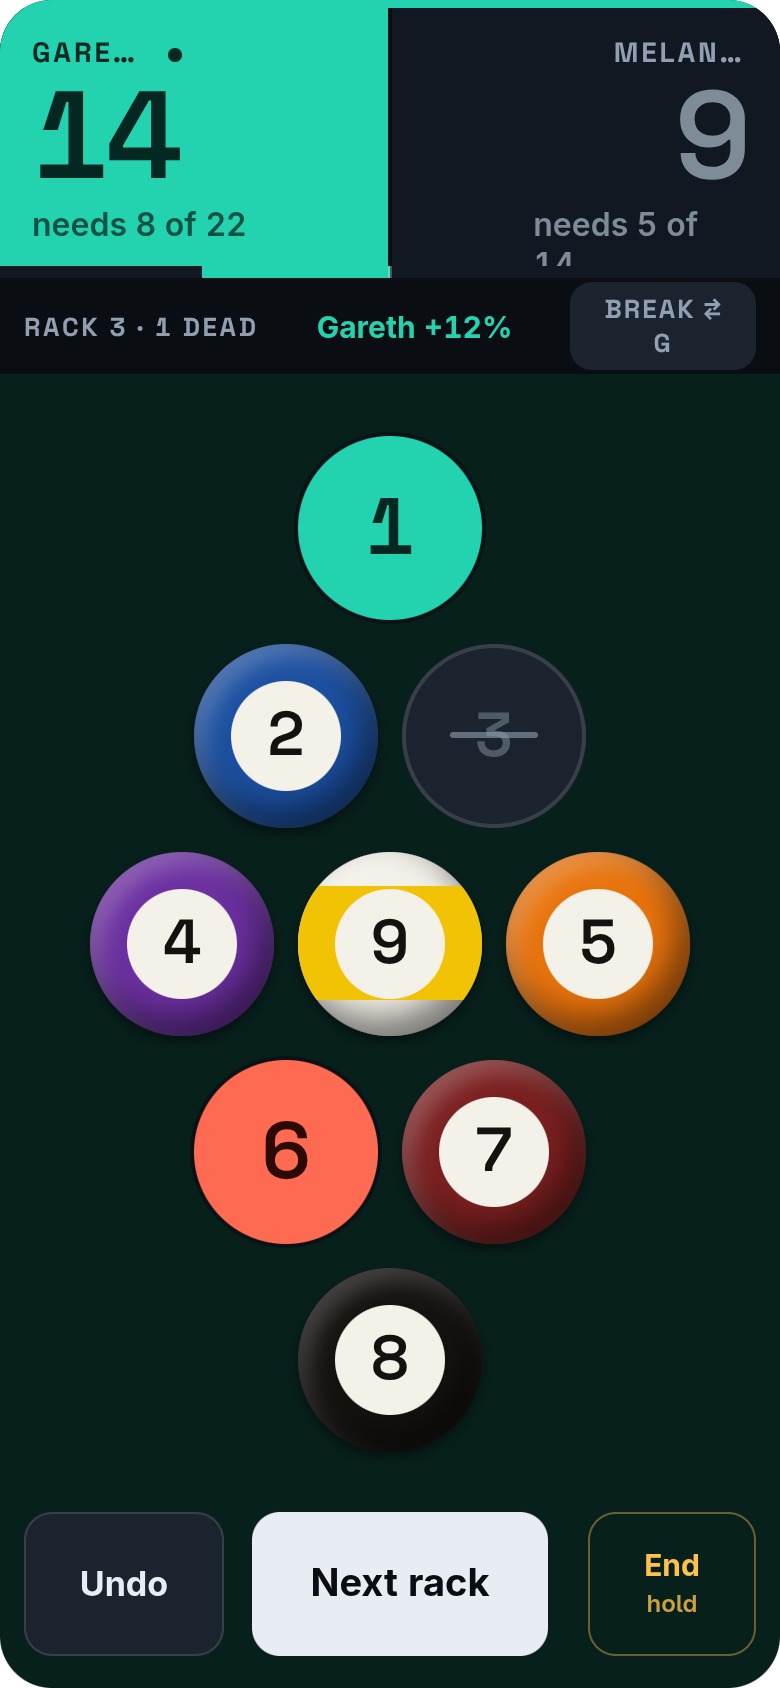
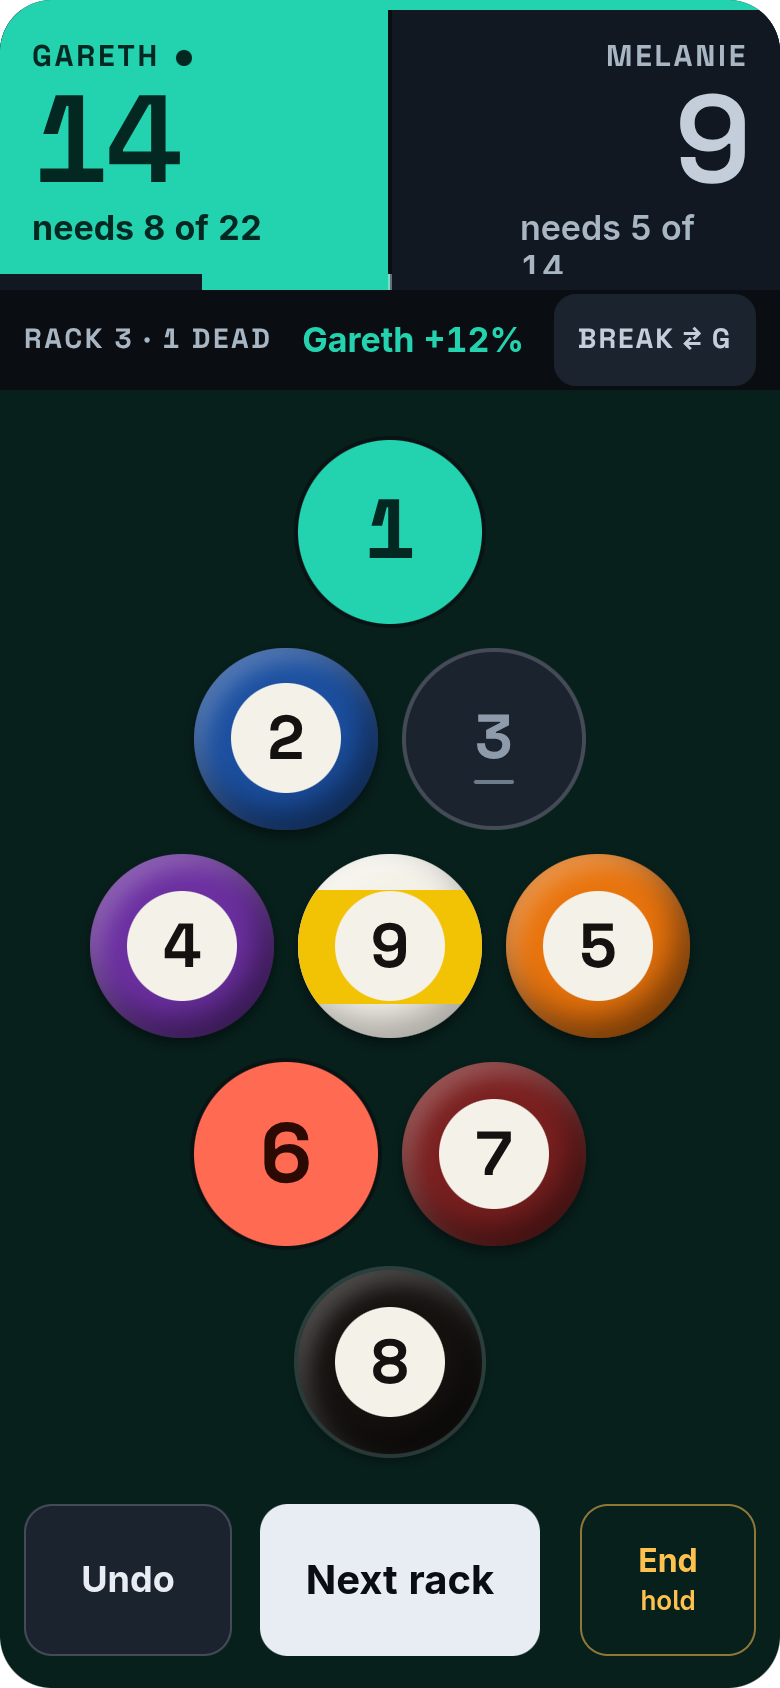
rack-it: bring in the design's legibility pass; caps labels may be 14px

diff --git a/rack-it/design/DESIGN.md b/rack-it/design/DESIGN.md
@@ -1,19 +1,21 @@
 # Rack It — dark system v2
 
-> **Read with `V3-PLAN.md`.** This spec was written by claude.ai/design against 1.5.0 and is
-> applied in **Session 6**, after Session 5 has moved the app to `rack-it/`. Where the two
+> **Read with `V3-PLAN.md`.** claude.ai/design wrote this spec against 1.5.0; Session 6 applies
+> it to `rack-it/`. The second export (2026-09-16, 14:51) added §7 Legibility and
+> `02-legibility.png`, updated `01`, and renumbered the rest. Where this doc and the plan
 > disagree, the plan wins:
 >
 > - Paths now say `rack-it/`: Session 5 moved the app there and made the app id `rack-it`.
 > - The `.dc.html` mockups named below were not exported; the PNGs beside this file are the
 >   reference render.
+> - **§7 wins over §1–§6.** Every "13px" label below is 14px, and the greys are §7's.
+>   `04`–`08` still show the earlier greys and 13px labels.
+> - **Owner decision (Session 6): tracked all-caps labels may be 14px.** Everything else stays
+>   at 15px or more. CLAUDE.md rule 7 says the same.
 > - Delete on a match summary and on a player is owner-only from Session 6, behind the hold
 >   described here. Rebuild ratings (Session 5) is owner-only too.
 > - Named new files for CLAUDE.md rule 1: `design/` (reference, never cached by `sw.js`) and
 >   the two `space-grotesk-*.woff2` files if the numerals are kept.
-> - ⚠ 13px tracked labels are below CLAUDE.md rule 7's 15px floor. The owner decides before
->   Session 6: amend the rule for all-caps labels, or set labels to 15px. Tab labels and the
->   match bar are the ones that matter for older eyes.
 > - ⚠ The renders truncate names ("GARE…") and wrap sub-lines ("needs 5 of 14"). Fit first
 >   names and sub-lines on one line at 390px before accepting the 62px score.
 
@@ -271,6 +273,50 @@ people sheet matches.
 5. Setup: one settings card, segmented game picker, odds sentence in the footer.
 6. Ratings / Matches / live strip / tab bar.
 7. Self-hosted Grotesk + `sw.js` cache list, if you want the numerals.
+8. The legibility pass in §7 — greys, sizes, targets. Safe to do first if you prefer.
 
 Update `rack-it/SPEC.md` in the same commits where behaviour changes: §12.3 (win area),
 §13.1 (tabs), §13.3 (setup), and add the hold-to-confirm rule.
+
+---
+
+## 7. Legibility — for eyes past 40, without an accessibility mode
+
+Nothing in this section changes the layout. The greys move up, the smallest sizes go away, the
+targets grow.
+
+### Greys, re-cut
+
+```css
+--text:#E8EDF3;    /* 15.4:1 — unchanged */
+--text-2:#C3CEDA;  /* 11.0:1 — idle score, chip text (was #7E8B99 at 3.3) */
+--dim:#A8B6C4;     /*  8.0:1 — sub-lines, meta (was #90A0B2 at 6.2) */
+--faint:#8D9BAA;   /*  5.6:1 — ranks, disabled (was #5E6B79 at 3.1) */
+```
+
+Floor: **7:1 for anything read while playing**, 4.5:1 for everything else — one notch above
+WCAG AA across the board, which is roughly what a 45-year-old eye in a dim room needs to match a
+25-year-old's AA. `--faint` is never used for body text again.
+
+### Sizes and targets
+
+- Smallest type in the app is **14px** tracked caps (was 13). Body stays 18.
+- Score sub-lines 16 → **17px**, weight 700 when on a colour fill.
+- Match-bar lead 15 → **17px**; score-head names 14 → **15px**.
+- Turn bar 4 → **5px**; lead rail 6 → **8px**; centre notch to 40% white.
+- Controls 72 → **76px**, Undo 104 wide; every other target ≥ **60px**.
+- 14px between adjacent controls; nothing important within 12px of a screen edge.
+
+### Rules
+
+1. **No state is colour-only** — ball states differ in shape, the lead shows a number, a
+   provisional rating says "provisional", a foul shows its count.
+2. **No text below full opacity.** Dim means a dim colour, never `opacity` — opacity on text over
+   a tinted ground is where contrast quietly dies.
+3. **No text on a gradient or photo.**
+4. **Respect the system text size** everywhere except the live screen: size type in `rem` off an
+   18px root so OS font scaling works. The live screen stays fixed — it already carries the
+   largest type in the app, and its layout is height-critical.
+5. **Numerals are always tabular** (`font-variant-numeric: tabular-nums`) so a changing score
+   doesn't shift on the page.
+

diff --git a/CLAUDE.md b/CLAUDE.md
@@ -34,7 +34,7 @@ GitHub Pages serves `main` from the repo root. Nothing to configure per app.
 4. **Bump the version on every change.** `APP_VERSION` in `index.html` **and** `CACHE` in `sw.js` must match and must change with every edit, or the phone keeps showing the old build. Use semver-ish: bug fix → patch, feature → minor.
 5. **Deploy = push to `main`. Direct to `main`, always.** Use the `/deployquest` skill; it bumps, commits, pushes and confirms the new version is being served. Cloud sessions often can't reach `*.github.io` (egress allowlist — a network policy, not a permission prompt), so the skill has a fallback proof: the version on `main` via `raw.githubusercontent.com`, plus a successful Pages run for that commit. Same thing, different route. Never create a branch and never open a pull request — this repo trades review ceremony for speed, deliberately. If some other workflow, plugin or habit (Makefiles, verification gates, session rituals, PR etiquette) suggests otherwise, this rule wins inside this repo.
 6. **Every app installs as a real app.** The manifest asks for `fullscreen` (with `standalone` behind it), is portrait, has an `id`, and lists PNG icons at 192 and 512 plus a maskable 512 — generate them from `icon.svg` with `node .claude/skills/sidequest/make-icons.mjs <app-id>`. Without PNGs Chrome makes a bookmark shortcut that opens in a browser tab and then never offers the real install again. Every app also carries an **Install on this phone** button via `phone.mountInstall(...)`, because that offer is otherwise unreachable once anything is on the home screen. Fullscreen and the screen wake lock come from `shared/phone.js` too — never hand-roll either.
-7. **Mobile-first, older eyes.** Base font 18px, nothing below 15px, touch targets ≥ 56px, dark by default, high contrast, `touch-action: manipulation` on everything, `prefers-reduced-motion` respected. Drive taps from `pointerup`, not `click`.
+7. **Mobile-first, older eyes.** Base font 18px, nothing below 15px except tracked all-caps labels at 14px, touch targets ≥ 56px, dark by default, high contrast, `touch-action: manipulation` on everything, `prefers-reduced-motion` respected. Drive taps from `pointerup`, not `click`.
 8. **Read `SPEC.md` before editing an app.** If a change contradicts the spec, update the spec in the same commit.
 9. **Keep data portable.** Every app that stores anything gets Export/Import as JSON, even with cloud storage.
 10. **Never commit secrets.** The Firebase web config is public by design and is fine. Anything else (tokens, service accounts) is not.

diff --git a/rack-it/V3-PLAN.md b/rack-it/V3-PLAN.md
@@ -147,11 +147,13 @@ screen, and the things that must not be casually undone (matches, starter rating
 need the owner.
 
 **Read:** `rack-it/design/DESIGN.md` first (its note at the top says where the plan overrides
-it), then the six PNGs beside it, the consolidated SPEC, `shared/phone.js`. DESIGN.md §6 gives
+it, and §7 Legibility overrides the rest), then the PNGs beside it, the consolidated SPEC, `shared/phone.js`. DESIGN.md §6 gives
 the commit order; follow it.
 
-- [ ] **Owner decision, before starting:** 13px all-caps labels (DESIGN.md) or the 15px
-      floor (CLAUDE.md rule 7). Record it in the rule and in DESIGN.md's note.
+- [x] **Owner decision, before starting:** 13px all-caps labels (DESIGN.md) or the 15px
+      floor (CLAUDE.md rule 7). **Decided: 14px tracked all-caps labels**, as the design's
+      legibility pass proposes; everything else 15px or more. Recorded in rule 7 and in
+      DESIGN.md's note.
 - [ ] **Tokens first.** Colours, type scale, spacing and radii from DESIGN.md replace the
       `:root` block. Every component follows: buttons, chips, rows, panels, tab bar, avatar
       ring, lead bar, balls. Check the house minimums survive: 18px base, nothing under
@@ -208,7 +210,9 @@ Unchanged: the people list at `_shared/people/`, person ids, the stored `game` v
 
 **Landed 2026-09-16** in `rack-it/design/` (moved from `fair-nine/design/` in Session 5):
 `DESIGN.md`, an implementation spec with tokens, live-screen redlines and a commit order, and
-six 390×844 artboards at 2x. The redesign lives in a regular claude.ai/design project, not a
+390×844 artboards at 2x. A second export the same afternoon added §7 Legibility (higher-contrast
+greys, 14px smallest type, bigger targets) and `02-legibility.png`, and renumbered the
+artboards `01`, `02`, `04`–`08`. The redesign lives in a regular claude.ai/design project, not a
 design-system project, so Claude Code's sync tool can't read it; further exports go the same
 way, by hand into that folder. The folder is reference only: `sw.js` doesn't cache it and the
 app never links to it.

diff --git a/rack-it/design/README.md b/rack-it/design/README.md
@@ -4,13 +4,15 @@ Artboards for the Rack It dark system v2. Drop this folder in at `rack-it/design
 
 | File | What it is |
 |---|---|
-| `DESIGN.md` | The implementation spec — tokens, live-screen redlines, migration order. Read this first. |
-| `01-live-11-point-nine.png` | Live scoring, 11-Point-Nine, teal side shooting. 390×844 @2x. |
-| `02-live-golden-nine.png` | Live scoring, Golden-Nine: foul row, captioned win columns, ball drop, End mid-hold. |
-| `03-new-match.png` | Setup: segmented game picker, one settings card, odds above Start. |
-| `04-ratings.png` | Ratings list + live-match strip + tab bar. |
-| `05-matches.png` | Match history, no per-row delete. |
-| `06-tokens.png` | Colour, type, spacing and target tokens. |
+| `DESIGN.md` | The implementation spec — tokens, live-screen redlines, the ball, legibility, migration order. Read this first. |
+| `01-live-11-point-nine.png` | Live scoring, 11-Point-Nine, teal side shooting. The reference frame. 390×844 @2x. |
+| `02-legibility.png` | Contrast, sizes and rules for the over-40 eye. |
+| `04-live-golden-nine.png` | Golden-Nine: foul row, captioned win columns, ball drop, End mid-hold. |
+| `05-new-match.png` | Setup: segmented game picker, one settings card, odds above Start. |
+| `06-ratings.png` | Ratings list + live-match strip + tab bar. |
+| `07-matches.png` | Match history, no per-row delete. |
+| `08-tokens.png` | Colour, type, spacing and target tokens. |
 
-All screens are drawn at 390×844 (iPhone 14/15 logical size), exported at 2x.
-Measurements in `DESIGN.md` are the source of truth; the PNGs are the reference render.
+Screens are drawn at 390×844 (iPhone 14/15 logical size), exported at 2x. `01` and `02` carry the
+legibility pass; `04`–`08` still show the earlier grey ramp and 13px labels. `DESIGN.md` wins
+over the PNGs everywhere.
